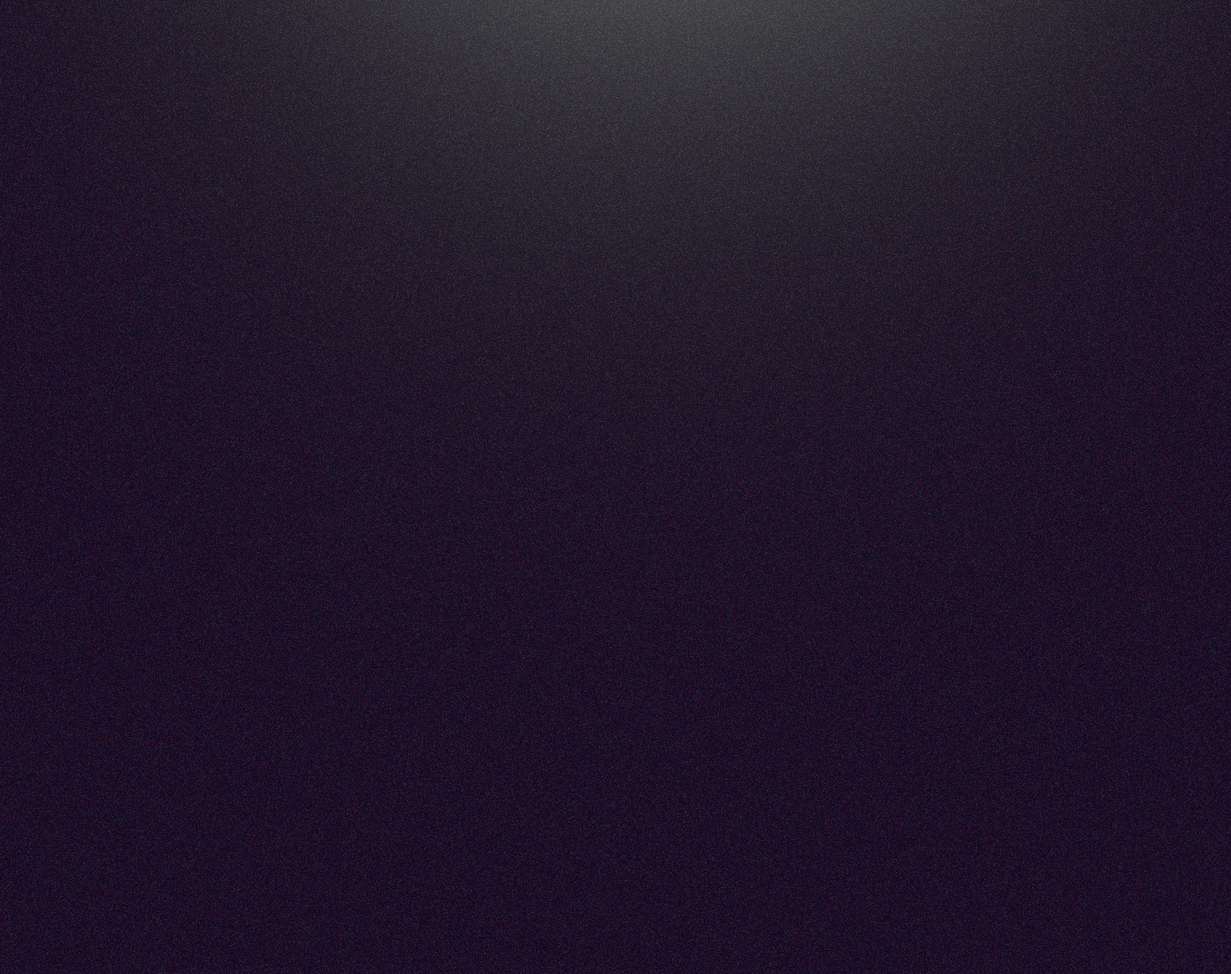
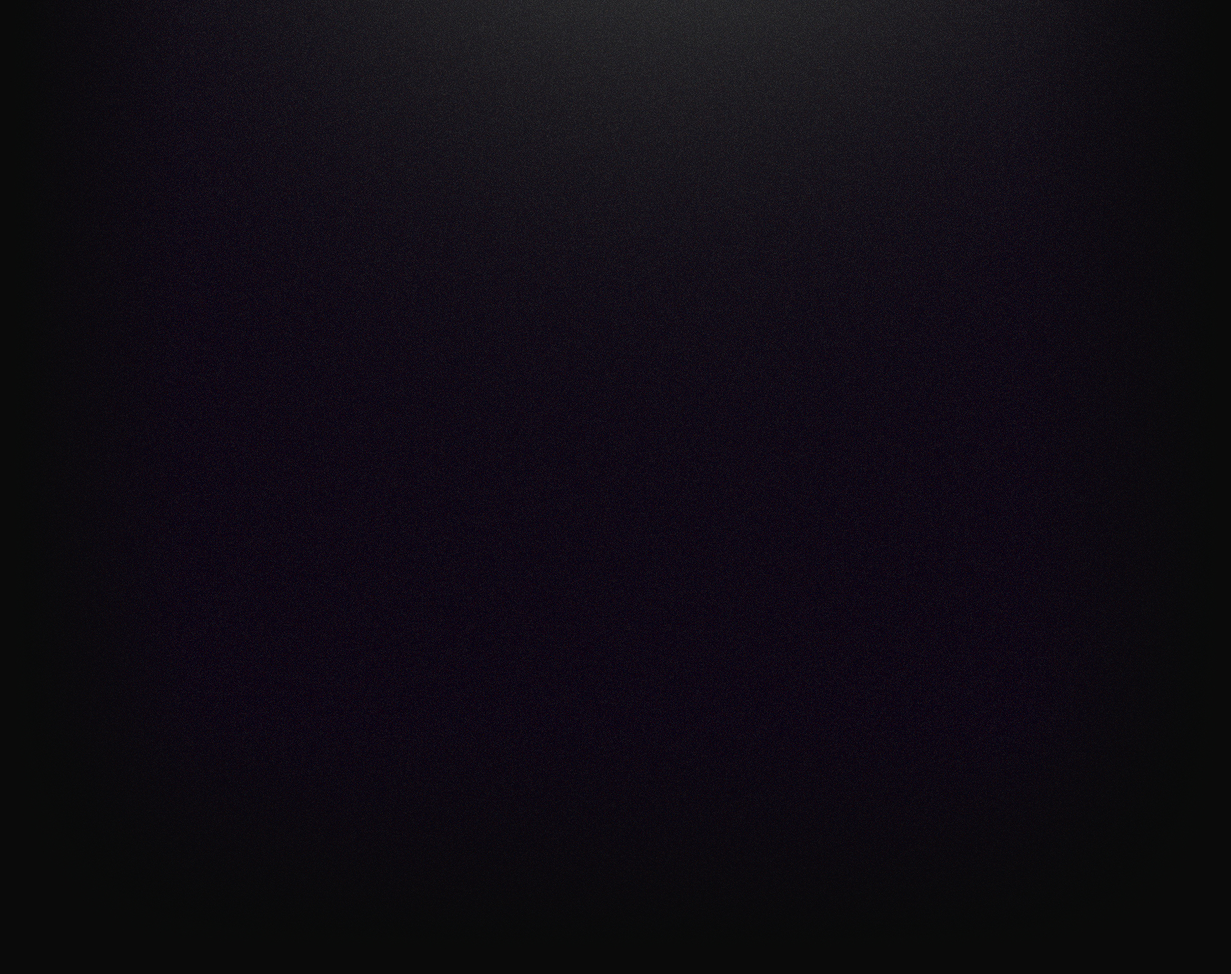
Renames files, adds vignette to background images

diff --git a/src/sass/load-and-modify-bootstrap.scss b/src/sass/load-and-modify-bootstrap.scss
@@ -30,7 +30,7 @@ h1, h2, h3, h4, h5 {
 }
 
 body {
-  background-image: url("/public/img/bg/bg-1-darker.jpg");
+  background-image: url("/public/img/bg/bg-1.jpg");
   background-repeat: no-repeat;
   background-size: contain;
 }
